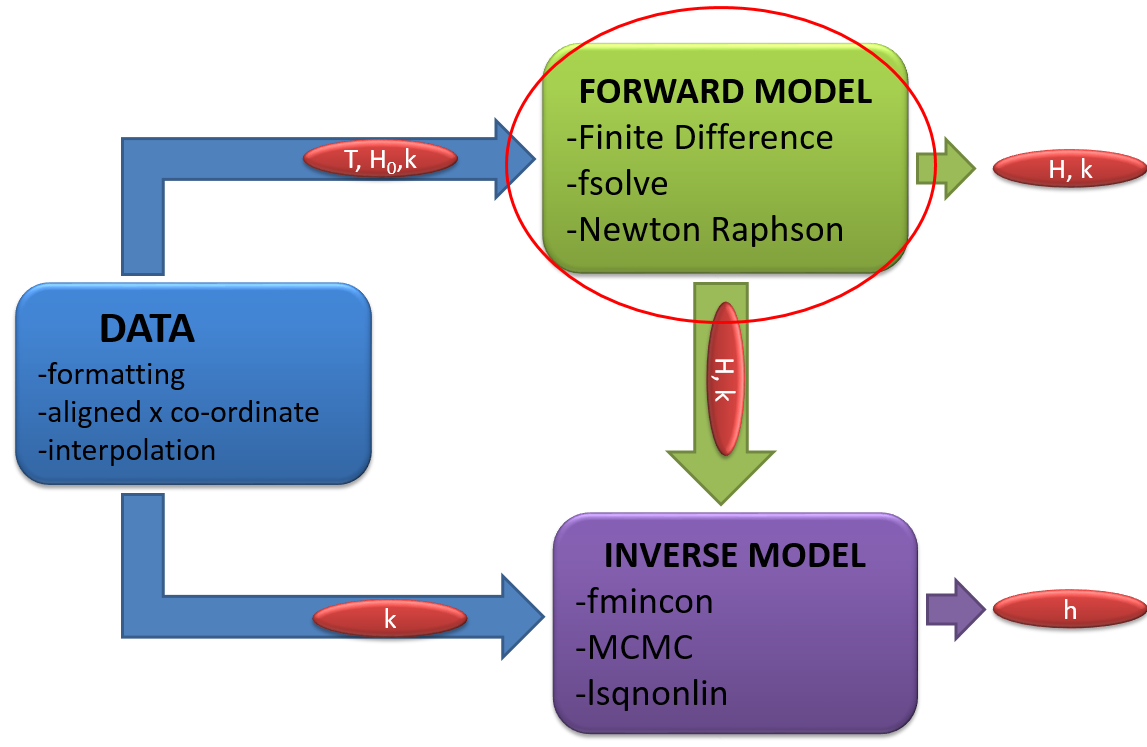
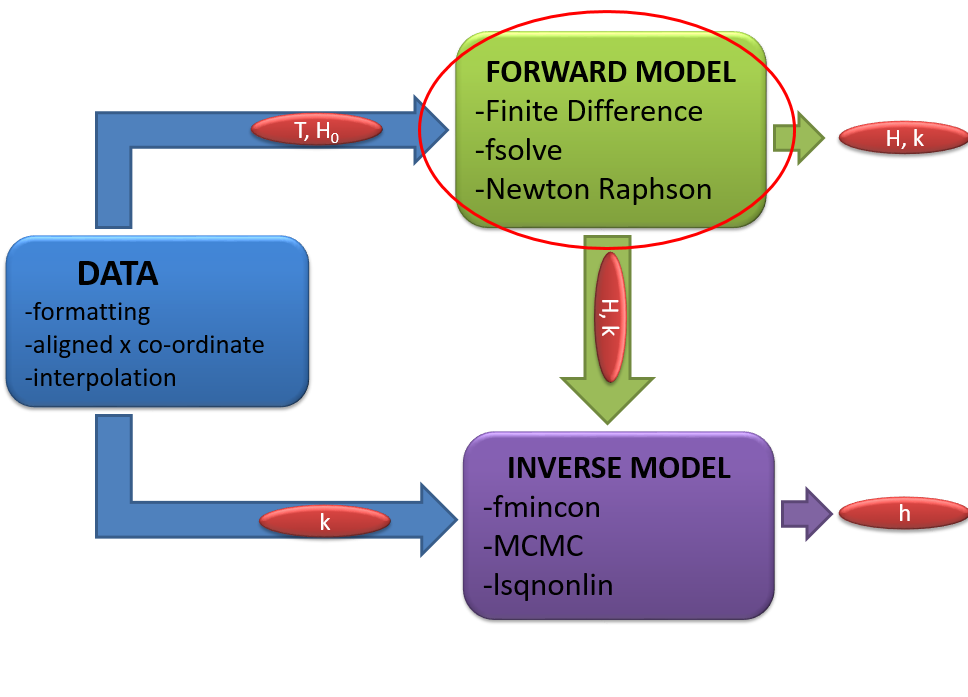
modified :)

Changed region(s): [[0.0, 0.0, 1.0, 0.9943]]

diff --git a/Presentation/USACE-bath-pres.tex b/Presentation/USACE-bath-pres.tex
@@ -186,7 +186,20 @@ In situ bathymetry data is
 
 \end{frame}
 %==========================================================================================================================================
+% SLIDE 5: Forward Model
+%======================================================================================
 
+\begin{frame}
+ \frametitle{Work flow of the Project}
+
+
+
+\begin{figure}[H]
+	 	\centering
+	 	\includegraphics[width=1.0\linewidth]{img/Flow_C.png}
+	 	\end{figure}
+
+\end{frame}
 
 
 %=====================================================================================================================
